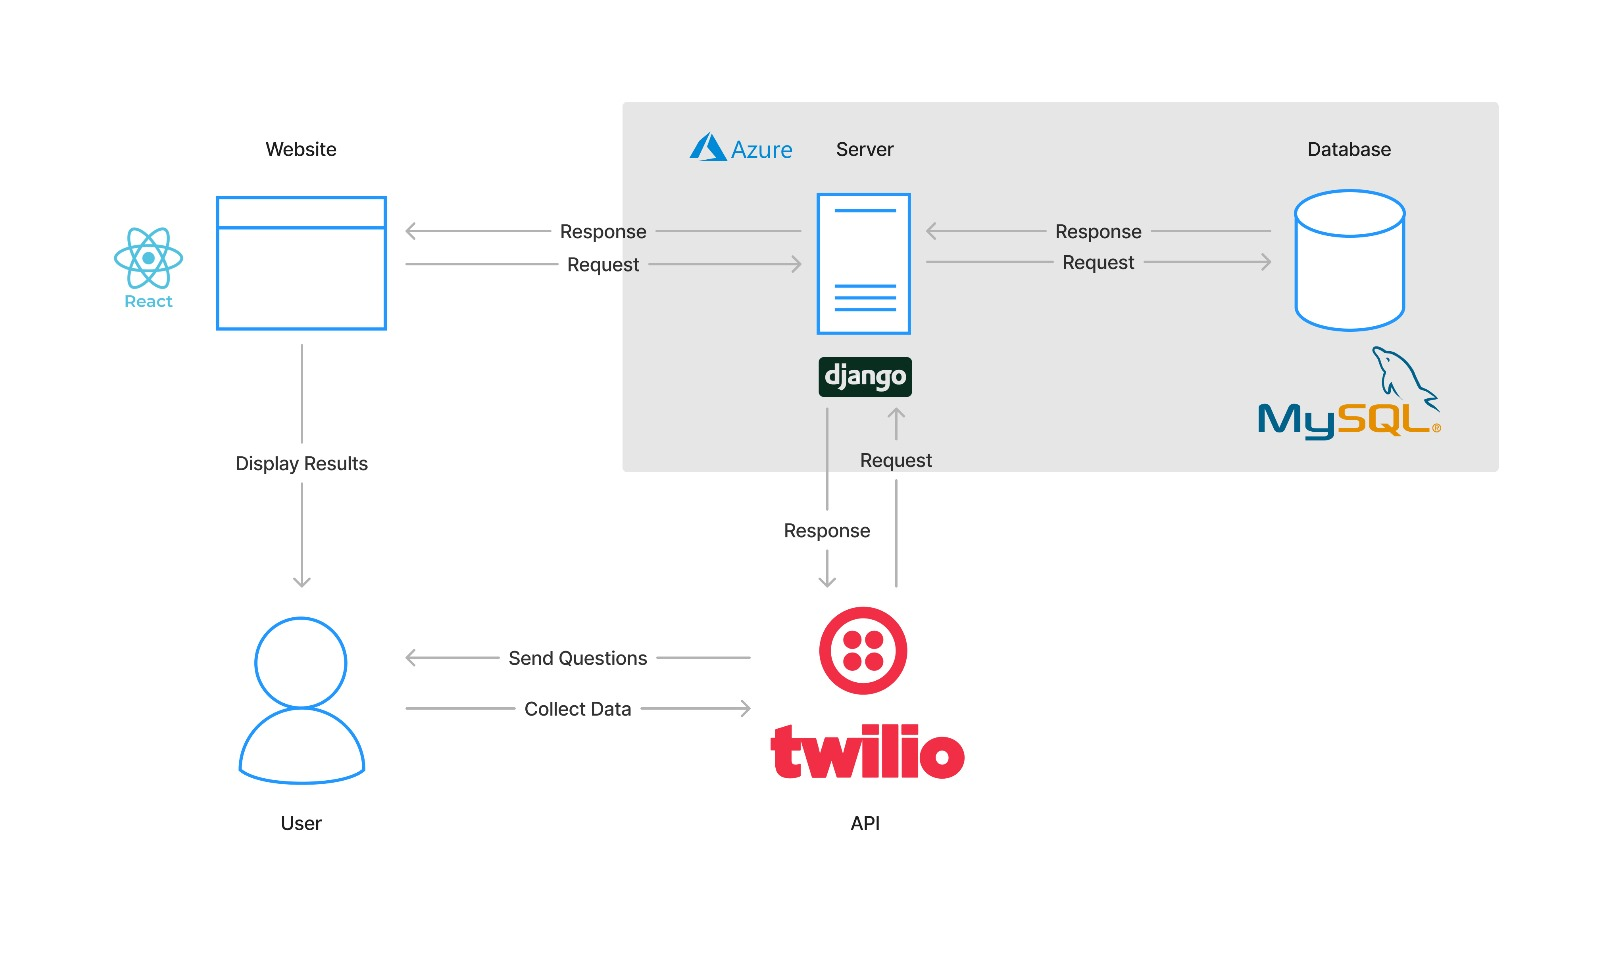
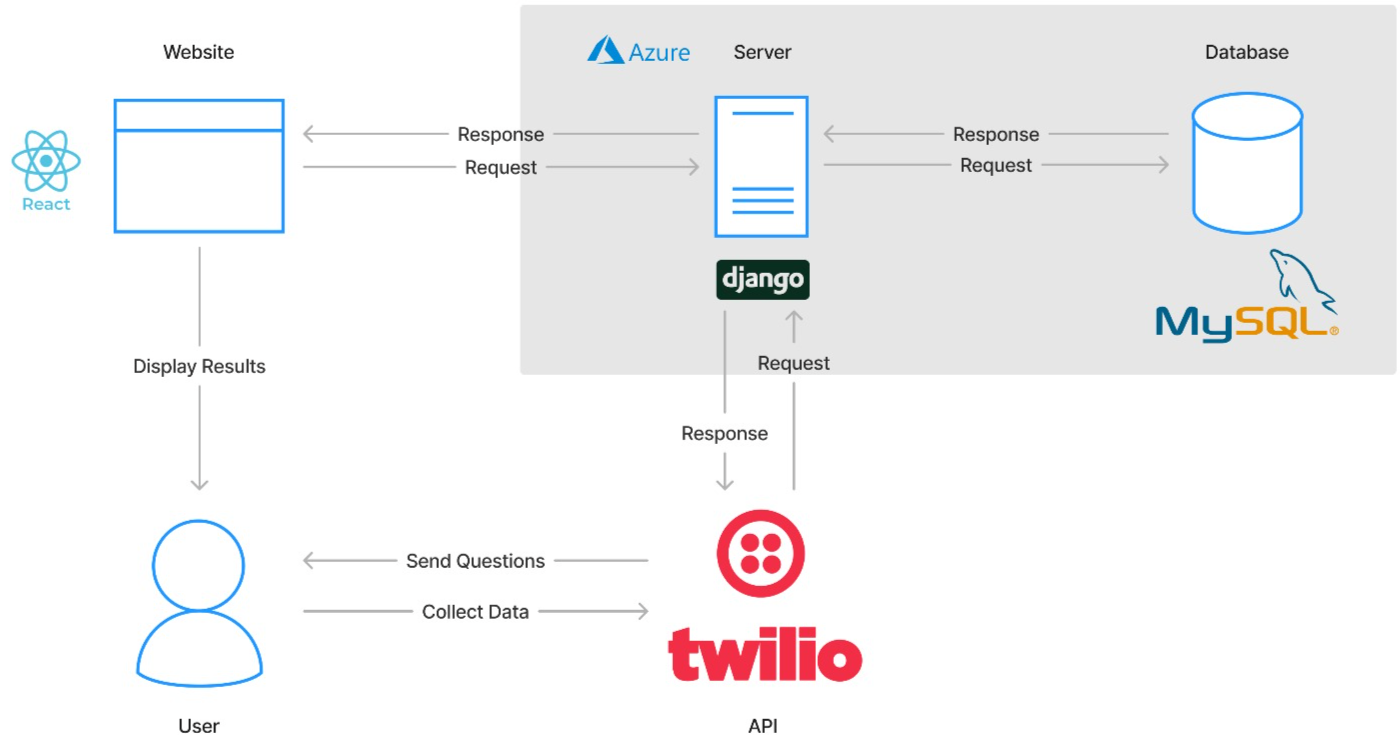
Updated impl

diff --git a/design.html b/design.html
@@ -81,15 +81,46 @@
     <div class="custom-container">
       <div id="design-system-architecture">
         <h2 class="text-decoration-underline">System Architecture</h2>
-        <img src="assets/img/systemdesign/SystemArchDiagram.jpeg" alt="SystemArchitecture" width="100%">
+        <div class="text-container">
+          <p>
+            Our project's system architecture is designed to efficiently collect, process, and visualize survey data, leveraging a suite
+            of modern technologies and platforms to ensure scalability, security, and user engagement.</p>
+          <p>
+            Survey Tool: Our survey tool is powered by Twilio, which integrates seamlessly with WhatsApp, 
+            enabling us to reach and engage participants globally. This integration allows users to easily participate in surveys 
+            directly from their WhatsApp application, making the data collection process both accessible and user-friendly.</p>
+          <p>Data Storage and Management: Responses gathered from the survey tool are securely transmitted and stored in a MySQL 
+            database. MySQL serves as our primary data repository, chosen for its proven reliability, performance, and support for 
+            complex queries, ensuring the integrity and accessibility of our survey data.</p>
+          <p>Backend Services: Our backend, developed with Django, acts as the backbone of our application, orchestrating the flow of 
+            data between the survey tool, database, and front-end dashboard. This backend infrastructure, including the APIs that 
+            facilitate data exchange, as well as the database, is hosted on Microsoft Azure, taking advantage of Azure's high 
+            availability, security, and scalability.</p>
+          <p>Frontend: The front-end dashboard, built with React, presents an interactive and intuitive interface for data 
+            visualization and analysis. Utilizing libraries like React Simple Maps and ApexCharts, we offer users detailed geospatial 
+            visualizations and insightful charts, enabling a deep dive into the survey data. React's component-based architecture 
+            allows for a maintainable codebase, ensuring the dashboard remains responsive and up-to-date with the latest survey 
+            results.</p>
+          <p>Integration and Flow: The system architecture is designed to support a seamless flow of information from survey collection 
+            through Twilio and WhatsApp, to data storage in MySQL, processing by the Django backend, and finally to visualization on the
+            React front-end dashboard. This integrated approach ensures that survey insights are quickly and effectively transformed into 
+            actionable intelligence for the IFRC, supporting their mission to respond to the needs of vulnerable communities around the 
+            globe.</p>
+        </div>
+        <img src="assets/img/systemdesign/SystemArchDiagram.jpeg" alt="SystemArchitecture" width="70%" data-aos="fade-up">
       </div>
       <br>
       <div id="design-site-map">
         <h2 class="text-decoration-underline">Site Map</h2>
-      </div>
-      <br>
-      <div id="design-sequence-diagrams">
-        <h2 class="text-decoration-underline">Sequence Diagrams</h2>
+        <p class="text-container">
+          The Site Map for the dashboard (Front End) is relatively simple and intuitive. Firstly, the home page is the entry point of the dashboard. Users can initiate their journey 
+          either by using the search bar to find a region directly or by navigating to the Select Country page to explore responses by 
+          country. This can also be done on the navbar. The Select Country page allows the user to either search for a country by selecting 
+          on a map or on a list. Once a country is selected, the user is brought to the country's info page which has demographics information 
+          about the country as well as a list of available regions. Finally, the region / community response page is either accessed by selecting 
+          the region in the country page or by searching for a region in the search bar.
+        </p>
+        <img src="assets/img/systemdesign/SiteMap.png" alt="SiteMap" width="40%" data-aos="fade-up">
       </div>
       <br>
       <div id="design-data-storage">

diff --git a/implementation.html b/implementation.html
@@ -79,7 +79,35 @@
   <main id="main">
 
     <div class="custom-container">
-      <h1>Heading 1</h1>
+      <div id="implementation-survey-tool">
+        <h2 class="text-decoration-underline">Survey Tool Implementation</h2>
+        <h4 class="text-decoration-underline text-container">Survey Bot</h4>
+        <h4 class="text-decoration-underline text-container">Model</h4>
+      </div>
+      <br>
+      <div id="implementation-front-end">
+        <h2 class="text-decoration-underline">Front-end Implementation</h2>
+        <h4 class="text-decoration-underline text-container">Pages</h4>
+        <p class="text-container">
+          With the dashboard, there is a need to create multiple pages and therefore needs routing. This includes pages for the home 
+          page, select country page, country info page and the region / community response page. To create the different routing options, 
+          we used the <code>react-router-dom</code> package. This package allows us to create different routes for different pages. Moreover, with this, 
+          we were able to allow for parameters to be passed through the URL. This was important as we needed to pass variables such as the 
+          country code or community id to retrieve the correct data.
+        </p>
+        <img src="assets/img/implementation/frontend/react-code-app-route.png" alt="Pages" width="60%" class="pb-4">
+        <h4 class="text-decoration-underline text-container">Interfaces / Types</h4>
+        <h4 class="text-decoration-underline text-container">Map</h4>
+        <h4 class="text-decoration-underline text-container">Charts</h4>
+      </div>
+      <br>
+      <div id="implementation-back-end">
+        <h2 class="text-decoration-underline">Back-end Implementation</h2>
+        <h4 class="text-decoration-underline text-container">Database</h4>
+        <h4 class="text-decoration-underline text-container">API</h4>
+        <h4 class="text-decoration-underline text-container">Hosting</h4>
+      </div>
+      <br>
     </div>
     
   </main><!-- End #main -->

diff --git a/index.html b/index.html
@@ -86,14 +86,15 @@
             <ul>
               <li><a href="design.html#design-system-architecture">System Architecture</a></li>
               <li><a href="design.html#design-site-map">Site Map</a></li>
-              <li><a href="design.html#design-sequence-diagrams">Sequence Diagrams</a></li>
               <li><a href="design.html#design-data-storage">Data Storage</a></li>
               <li><a href="design.html#design-packages-api">Packages and APIs</a></li>
             </ul>
           </li>
           <li class="dropdown"><a href="implementation.html"><span>Impl.</span></a>
             <ul>
-              <li><a href="implementation.html#">Section</a></li>
+              <li><a href="implementation.html#implementation-survey-tool">Survey Tool Impl.</a></li>
+              <li><a href="implementation.html#implementation-front-end">Frontend Impl.</a></li>
+              <li><a href="implementation.html#implementation-back-end">Backend Impl.</a></li>
             </ul>
           </li>
           <li class="dropdown"><a href="testing.html"><span>Testing</span></a>

diff --git a/research.html b/research.html
@@ -264,7 +264,7 @@
         </div>
       </div>
       <br>
-      <div id="research-technical-decisions" data-aos="fade-up">
+      <div id="research-technical-decisions">
         <h2 class="text-decoration-underline">Technical Decisions</h2>
         <p class="text-container">After researching all the available technologies and weighing the pros and cons, we have decided 
           on the following technologies for the implementation of Redcrossconnect:</p>

diff --git a/evaluation.html b/evaluation.html
@@ -275,9 +275,9 @@
             </tr>
             <tr>
               <td>Overall contribution</td>
-              <td>40%</td>
-              <td>30%</td>
-              <td>30%</td>
+              <td>36%</td>
+              <td>32%</td>
+              <td>32%</td>
             </tr>
             <tr>
               <td>Main Roles</td>
